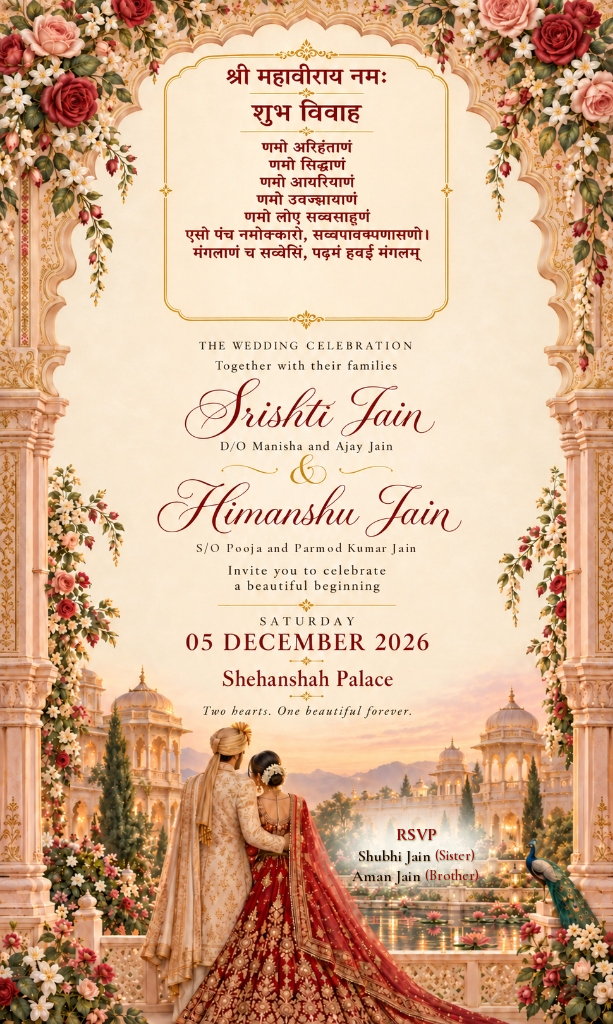
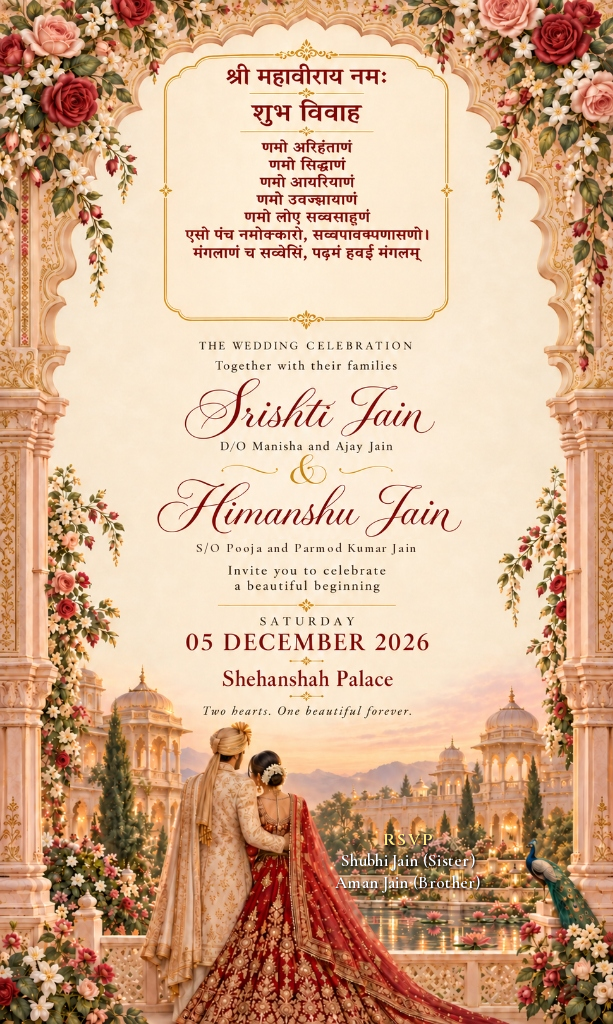
Refine RSVP typography with pure high-contrast foil without any box or cloud backdrop

Changed region(s): [[0.5269, 0.7812, 0.8369, 0.9062]]

diff --git a/index.html b/index.html
@@ -613,7 +613,7 @@
           <div class="card-display-envelope reveal-animated-content" role="region" aria-label="Wedding Invitation Card Keepsake">
             <div id="card-preview-wrap" class="card-art-frame" role="button" tabindex="0" aria-label="Tap to inspect full invitation card in high resolution">
               <img id="card-preview-img"
-                   src="assets/images/invitation_card.png?v=5.3"
+                   src="assets/images/invitation_card.png?v=5.4"
                    alt="Srishti Jain &amp; Himanshu Jain Wedding Invitation Keepsake Card with RSVP Shubhi Jain (Sister) and Aman Jain (Brother)"
                    class="keepsake-card-image"
                    width="613"
@@ -646,7 +646,7 @@
       <div class="lightbox-overlay" id="lightbox-close-overlay"></div>
       <div class="lightbox-content">
         <button id="lightbox-close-btn" class="lightbox-close-btn" type="button" aria-label="Close enlarged card view">&times;</button>
-        <img id="lightbox-img" src="assets/images/invitation_card.png?v=5.3" alt="Enlarged Srishti &amp; Himanshu Wedding Invitation Card with RSVP Shubhi Jain (Sister) and Aman Jain (Brother)" class="lightbox-card-image">
+        <img id="lightbox-img" src="assets/images/invitation_card.png?v=5.4" alt="Enlarged Srishti &amp; Himanshu Wedding Invitation Card with RSVP Shubhi Jain (Sister) and Aman Jain (Brother)" class="lightbox-card-image">
       </div>
     </div>
 

diff --git a/js/card.js b/js/card.js
@@ -35,7 +35,7 @@
   // Background artwork — user uploaded master card with Shehanshah Palace & cursive calligraphy
   const bgImg  = new Image();
   bgImg.crossOrigin = 'anonymous';
-  bgImg.src    = 'assets/images/invitation_card.png?v=5.3';
+  bgImg.src    = 'assets/images/invitation_card.png?v=5.4';
   let bgLoaded = false;
 
   function renderCard() {
